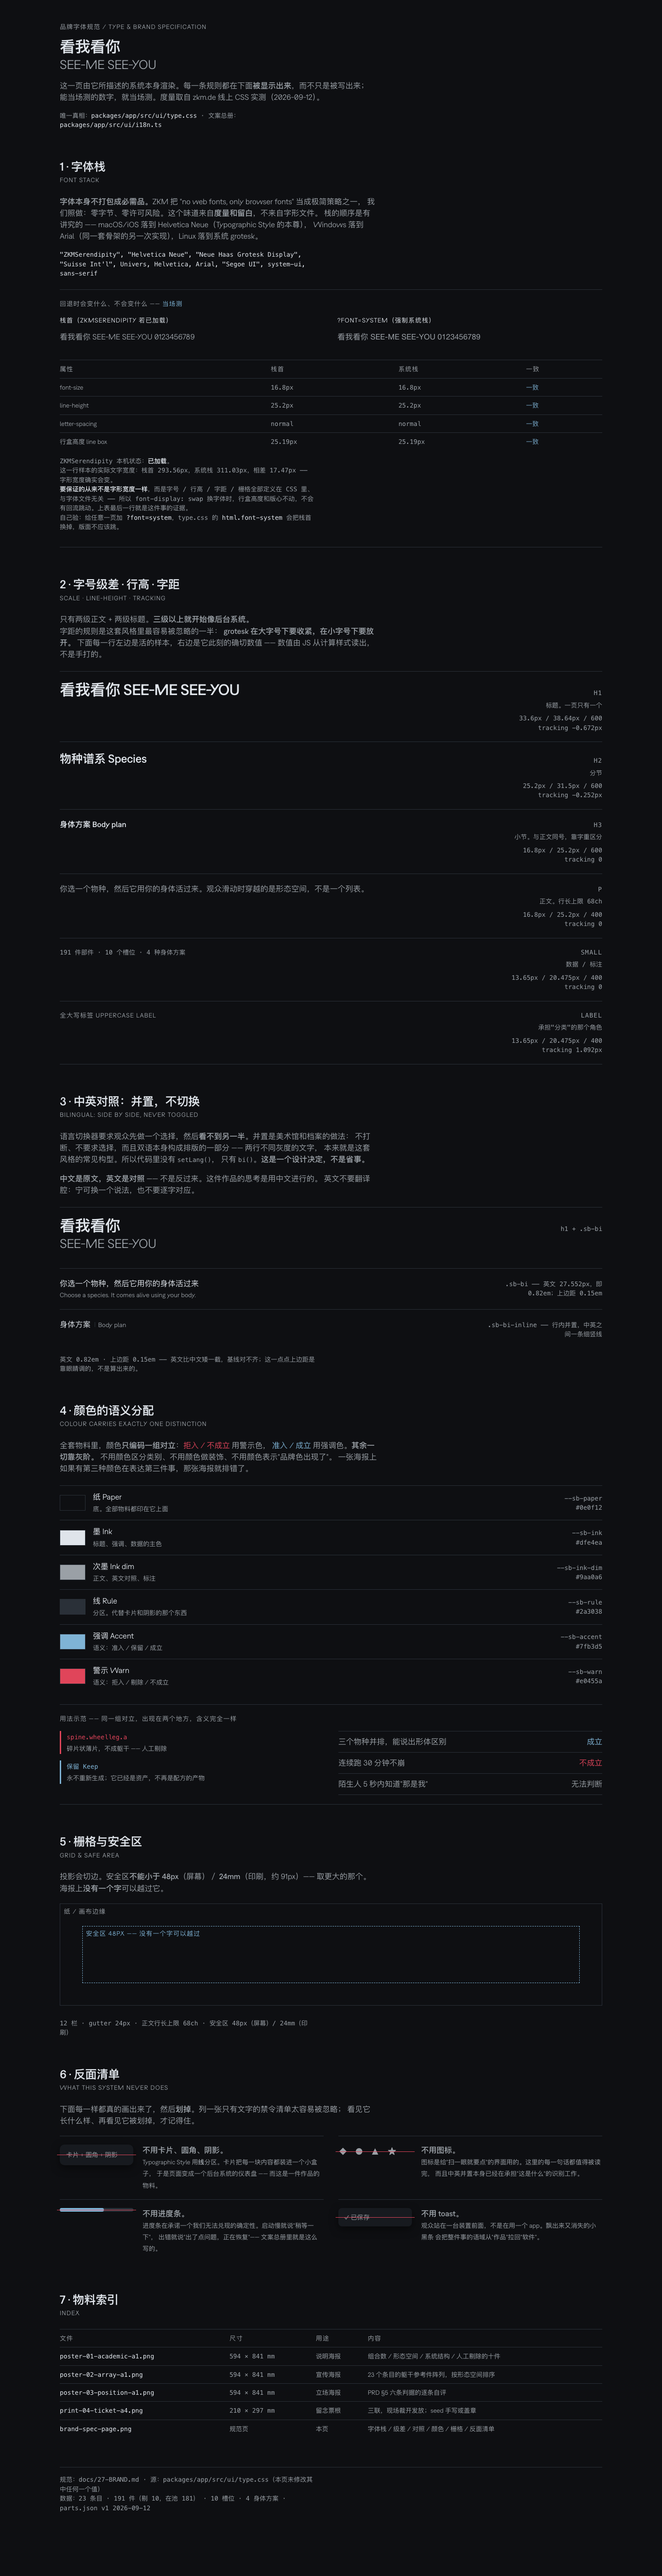
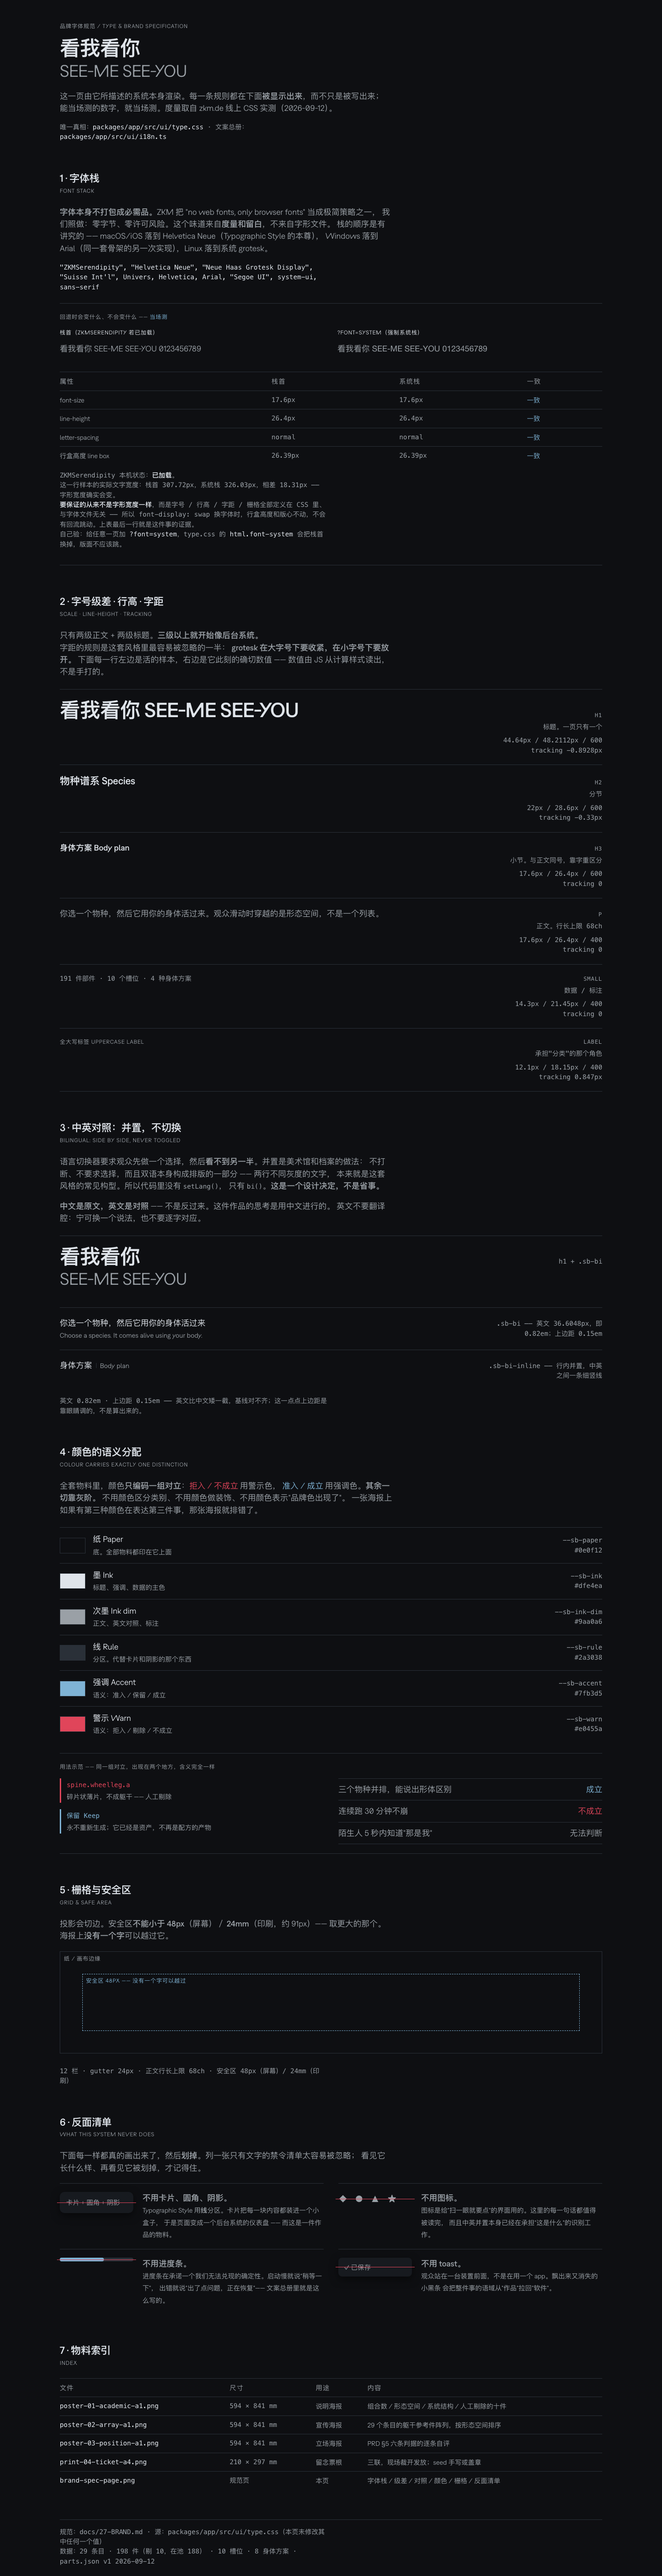
docs: 英文化规范与门面；顺带修掉海报上已经漂掉的数字
README / AGENTS / docs/02 (P0–P20) / docs/15 改成英文，中文版不并行维护 ——
两份规范一定会漂移，而漂移的规范比没有规范更糟。作品向的文档（PRD / 00 /
25 / 26 / 27 / 31）和 packages 里的注释保持中文：它们记的是"为什么"，
中文写得更准。

海报：data.js 停在 191 件 / 23 条目 / 4 种身体方案，而仓库已经是
198 / 29 / 8。这几张海报全部的说服力是"数字是跑出来的"，
而"跑出来的"只在跑的那一刻成立 —— 之后 parts.json 每动一次它就旧一天。
重跑 build-data.mjs 重出图，出第 3 版，并把这条规矩写进 assets/brand/README。

没人在说谎，只是没人负责重跑。现在有了。

diff --git a/packages/app/poster/data.js b/packages/app/poster/data.js
@@ -1,51 +1,55 @@
 /* 由 build-data.mjs 生成，不要手改。跑 `node packages/app/poster/build-data.mjs` 重出。 */
 window.SB_POSTER = {
-  "generatedAt": "2026-09-12T16:37:32.528Z",
+  "generatedAt": "2026-09-12T21:04:50.181Z",
   "source": {
     "parts": "assets/parts/parts.json",
     "curation": "assets/parts/curation.json",
-    "partsGeneratedAt": "2026-09-12T15:28:24.479Z",
+    "partsGeneratedAt": "2026-09-12T20:28:13.805Z",
     "partsVersion": 1
   },
   "counts": {
-    "entries": 23,
-    "parts": 191,
+    "entries": 29,
+    "parts": 198,
     "partsRejected": 10,
-    "partsLive": 181,
+    "partsLive": 188,
     "slots": 10,
     "boneKeys": 18,
     "materials": 9,
-    "plans": 4,
-    "triangles": 562638,
-    "entriesWithAnchor": 21,
-    "vacancies": 2,
+    "plans": 8,
+    "triangles": 582546,
+    "entriesWithAnchor": 22,
+    "vacancies": 6,
     "fullyBorrowed": 2
   },
   "bySlot": {
     "clavicle": 10,
-    "foot": 25,
+    "foot": 26,
     "foreArm": 10,
     "hand": 10,
-    "head": 25,
-    "joint": 25,
-    "shin": 25,
-    "spine": 26,
+    "head": 26,
+    "joint": 26,
+    "shin": 26,
+    "spine": 28,
     "thigh": 10,
-    "upperArm": 25
+    "upperArm": 26
   },
   "byPlan": {
-    "rig": 14,
-    "quadruped": 4,
+    "rig": 11,
+    "quadruped": 5,
+    "inverted": 1,
     "mass": 3,
-    "stub": 2
+    "stub": 3,
+    "radial": 2,
+    "column": 2,
+    "towering": 2
   },
   "byKind": {
     "archetype": 18,
     "guest": 1,
-    "character": 4
+    "character": 10
   },
   "tier": 2,
-  "totalBodies": 1642496,
+  "totalBodies": 1773824,
   "entries": [
     {
       "id": "porcelain",
@@ -189,7 +193,7 @@ window.SB_POSTER = {
       "nameEn": "Xeno",
       "tagline": "它在模仿你，但模仿错了",
       "taglineEn": "It is imitating you, and getting it wrong",
-      "plan": "rig",
+      "plan": "inverted",
       "coverage": "full",
       "base": null,
       "axes": {
@@ -594,7 +598,7 @@ window.SB_POSTER = {
       "nameEn": "Furball",
       "tagline": "它放弃了腿、手和任务",
       "taglineEn": "It gave up limbs, hands, and usefulness",
-      "plan": "rig",
+      "plan": "radial",
       "coverage": "light",
       "base": "porcelain",
       "axes": {
@@ -639,7 +643,7 @@ window.SB_POSTER = {
       "nameEn": "Screenface",
       "tagline": "几个自由度就够它有人格",
       "taglineEn": "A few degrees of freedom are enough for a personality",
-      "plan": "rig",
+      "plan": "column",
       "coverage": "light",
       "base": "porcelain",
       "axes": {
@@ -684,7 +688,7 @@ window.SB_POSTER = {
       "nameEn": "Orb",
       "tagline": "机器人为什么一定要有腿",
       "taglineEn": "Why would a robot need legs",
-      "plan": "rig",
+      "plan": "radial",
       "coverage": "light",
       "base": "porcelain",
       "axes": {
@@ -729,7 +733,7 @@ window.SB_POSTER = {
       "nameEn": "Manipulator",
       "tagline": "被人形热潮盖住的那个真正重要的物种",
       "taglineEn": "The species the humanoid hype buried",
-      "plan": "rig",
+      "plan": "column",
       "coverage": "light",
       "base": "porcelain",
       "axes": {
@@ -774,7 +778,7 @@ window.SB_POSTER = {
       "nameEn": "Autonomous",
       "tagline": "它也是机器人，只是大了很多",
       "taglineEn": "Also a robot. Just much larger.",
-      "plan": "rig",
+      "plan": "quadruped",
       "coverage": "light",
       "base": "porcelain",
       "axes": {
@@ -961,7 +965,7 @@ window.SB_POSTER = {
       "nameEn": "Paper",
       "tagline": "一具折出来的身体",
       "taglineEn": "A body that was folded",
-      "plan": "rig",
+      "plan": "towering",
       "coverage": "light",
       "base": "porcelain",
       "axes": {
@@ -1043,6 +1047,200 @@ window.SB_POSTER = {
         "joint": 1
       },
       "anchor": true
+    },
+    {
+      "id": "char.inflate",
+      "kind": "character",
+      "name": "充气",
+      "nameEn": "Inflate",
+      "tagline": "一个被气撑起来的看护者",
+      "taglineEn": "A caretaker held up by air",
+      "plan": "rig",
+      "coverage": "light",
+      "base": "porcelain",
+      "axes": {
+        "humanLike": 0.55,
+        "lifeLike": 0.8
+      },
+      "palette": [
+        "matte.bone",
+        "ceramic.pearl",
+        "matte.ash"
+      ],
+      "ownParts": 1,
+      "ownRejected": 0,
+      "fullyBorrowed": false,
+      "bodies": 131072,
+      "perSlot": {
+        "spine": 1,
+        "neck": 2,
+        "head": 2,
+        "clavicleL": 2,
+        "clavicleR": 2,
+        "upperArmL": 2,
+        "upperArmR": 2,
+        "foreArmL": 2,
+        "foreArmR": 2,
+        "handL": 2,
+        "handR": 2,
+        "thighL": 2,
+        "thighR": 2,
+        "shinL": 2,
+        "shinR": 2,
+        "footL": 2,
+        "footR": 2,
+        "joint": 2
+      },
+      "anchor": true
+    },
+    {
+      "id": "char.diva",
+      "kind": "character",
+      "name": "歌姬",
+      "nameEn": "Diva",
+      "tagline": "一个被投影出来的人",
+      "taglineEn": "A person made of projected light",
+      "plan": "towering",
+      "coverage": "light",
+      "base": "char.ghost",
+      "axes": {
+        "humanLike": 0.8,
+        "lifeLike": 0.45
+      },
+      "palette": [
+        "glow.signal",
+        "ceramic.pearl",
+        "matte.ash"
+      ],
+      "ownParts": 0,
+      "ownRejected": 0,
+      "fullyBorrowed": false,
+      "bodies": null,
+      "perSlot": null,
+      "anchor": false
+    },
+    {
+      "id": "char.line",
+      "kind": "character",
+      "name": "线",
+      "nameEn": "Line",
+      "tagline": "一个被画出来的东西",
+      "taglineEn": "Something that was drawn, not built",
+      "plan": "stub",
+      "coverage": "light",
+      "base": "char.dumpling",
+      "axes": {
+        "humanLike": 0.25,
+        "lifeLike": 0.9
+      },
+      "palette": [
+        "matte.bone",
+        "matte.ash",
+        "paint.hazard"
+      ],
+      "ownParts": 0,
+      "ownRejected": 0,
+      "fullyBorrowed": false,
+      "bodies": null,
+      "perSlot": null,
+      "anchor": false
+    },
+    {
+      "id": "guest.keynote",
+      "kind": "character",
+      "name": "发布会",
+      "nameEn": "Keynote",
+      "tagline": "舞台上的那套制服",
+      "taglineEn": "The uniform worn on stage",
+      "plan": "rig",
+      "coverage": "light",
+      "base": "porcelain",
+      "axes": {
+        "humanLike": 1,
+        "lifeLike": 0.55
+      },
+      "palette": [
+        "matte.ash",
+        "matte.bone",
+        "metal.graphite"
+      ],
+      "ownParts": 0,
+      "ownRejected": 0,
+      "fullyBorrowed": false,
+      "bodies": null,
+      "perSlot": null,
+      "anchor": false
+    },
+    {
+      "id": "char.tokusatsu",
+      "kind": "character",
+      "name": "特摄",
+      "nameEn": "Tokusatsu",
+      "tagline": "一件被人穿着的光",
+      "taglineEn": "A light with a person inside it",
+      "plan": "rig",
+      "coverage": "light",
+      "base": "industrial",
+      "axes": {
+        "humanLike": 0.95,
+        "lifeLike": 0.5
+      },
+      "palette": [
+        "metal.graphite",
+        "paint.hazard",
+        "glow.signal"
+      ],
+      "ownParts": 0,
+      "ownRejected": 0,
+      "fullyBorrowed": false,
+      "bodies": null,
+      "perSlot": null,
+      "anchor": false
+    },
+    {
+      "id": "char.painting",
+      "kind": "character",
+      "name": "画",
+      "nameEn": "Painting",
+      "tagline": "一幅画站了起来",
+      "taglineEn": "A painting that stood up",
+      "plan": "rig",
+      "coverage": "light",
+      "base": "porcelain",
+      "axes": {
+        "humanLike": 1,
+        "lifeLike": 0.65
+      },
+      "palette": [
+        "matte.ash",
+        "matte.bone",
+        "ceramic.pearl"
+      ],
+      "ownParts": 6,
+      "ownRejected": 0,
+      "fullyBorrowed": false,
+      "bodies": 256,
+      "perSlot": {
+        "spine": 1,
+        "neck": 1,
+        "head": 1,
+        "clavicleL": 2,
+        "clavicleR": 2,
+        "upperArmL": 1,
+        "upperArmR": 1,
+        "foreArmL": 2,
+        "foreArmR": 2,
+        "handL": 2,
+        "handR": 2,
+        "thighL": 2,
+        "thighR": 2,
+        "shinL": 1,
+        "shinR": 1,
+        "footL": 1,
+        "footR": 1,
+        "joint": 1
+      },
+      "anchor": false
     }
   ],
   "rejects": [

diff --git a/assets/brand/README.md b/assets/brand/README.md
@@ -104,7 +104,23 @@ node packages/app/poster/shot.mjs --port=5173
 | 张 | 版 | 日期 | 改了什么 |
 |---|---|---|---|
 | 03 立场 A1 | 第 2 版 | 2026-09-13 | 慢回路那一格从「只有规格、一行代码没写」改为「两端已接通，但真实生成调用一次没打过」；竖条从警示色改成灰 —— 这张海报上的强调色只留给"成立"，一件半成品不配拿它。第 1 版印于 2026-09-12 |
+| 全部四张 | 第 3 版 | 2026-09-13 | **数字漂了。** `data.js` 停在 191 件 / 23 条目 / 4 种身体方案 / 1,642,496 具，而仓库已经是 198 件 / 29 条目 / 8 种 / 1,773,824 具。这不是重新设计，是重新**跑**了一次 `build-data.mjs` 然后重出图 |
 
 海报正文里写着「这张海报会过期。那一天我们就换一张。」
 第 2 版是它第一次兑现这句话。**改版要在版次表里留痕，不要静默重印** ——
 一张会过期的海报，它的价值一半在于能看出它什么时候过的期。
+
+
+## 一条必须自己盯住的
+
+这几张海报全部的说服力是"数字是跑出来的"。
+但**"跑出来的"只在跑的那一刻成立** —— 之后 `parts.json` 每动一次，`data.js` 就旧一天。
+
+第 3 版就是这么来的：英文化那条线在核 README 数字时顺手发现海报停在 191 件，
+而仓库已经 198 了。没人在说谎，只是没人负责重跑。
+
+**规矩**：`assets/parts/parts.json` 变了，就要
+```bash
+node packages/app/poster/build-data.mjs && node packages/app/poster/shot.mjs --port=<dev port>
+```
+并在上面的版次表里记一行。**不重跑就不要拿旧图去印。**
